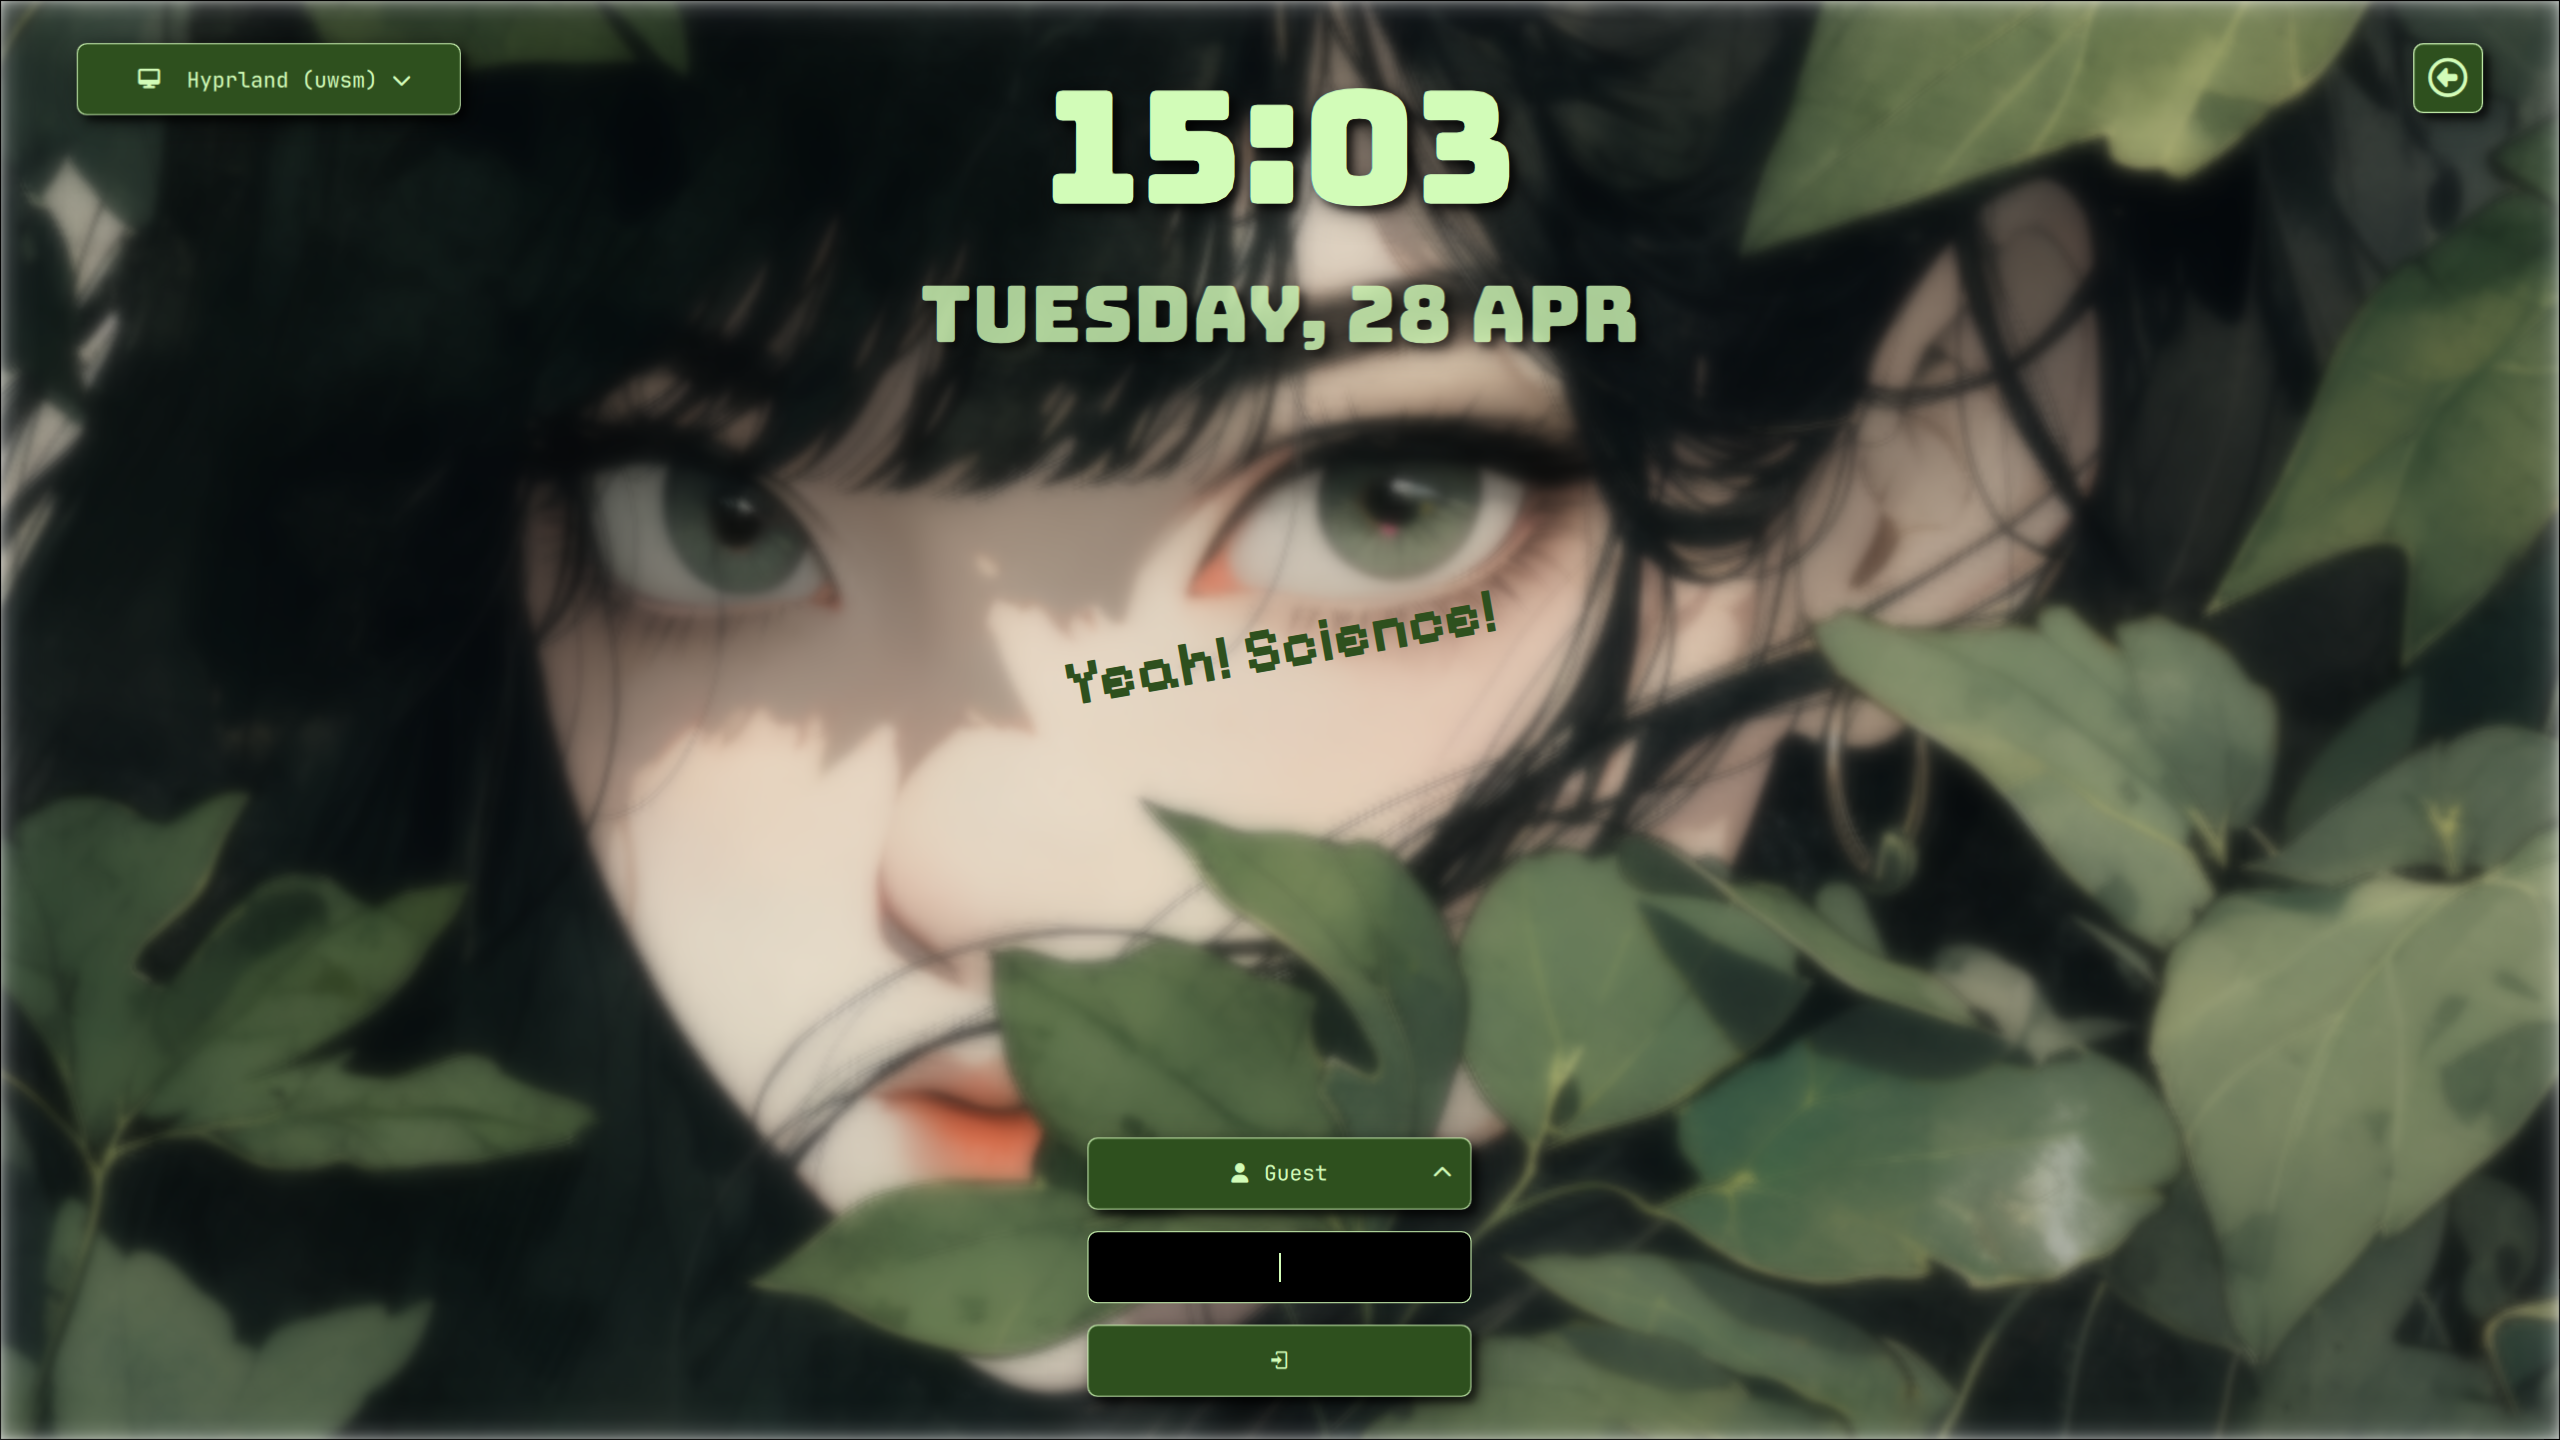
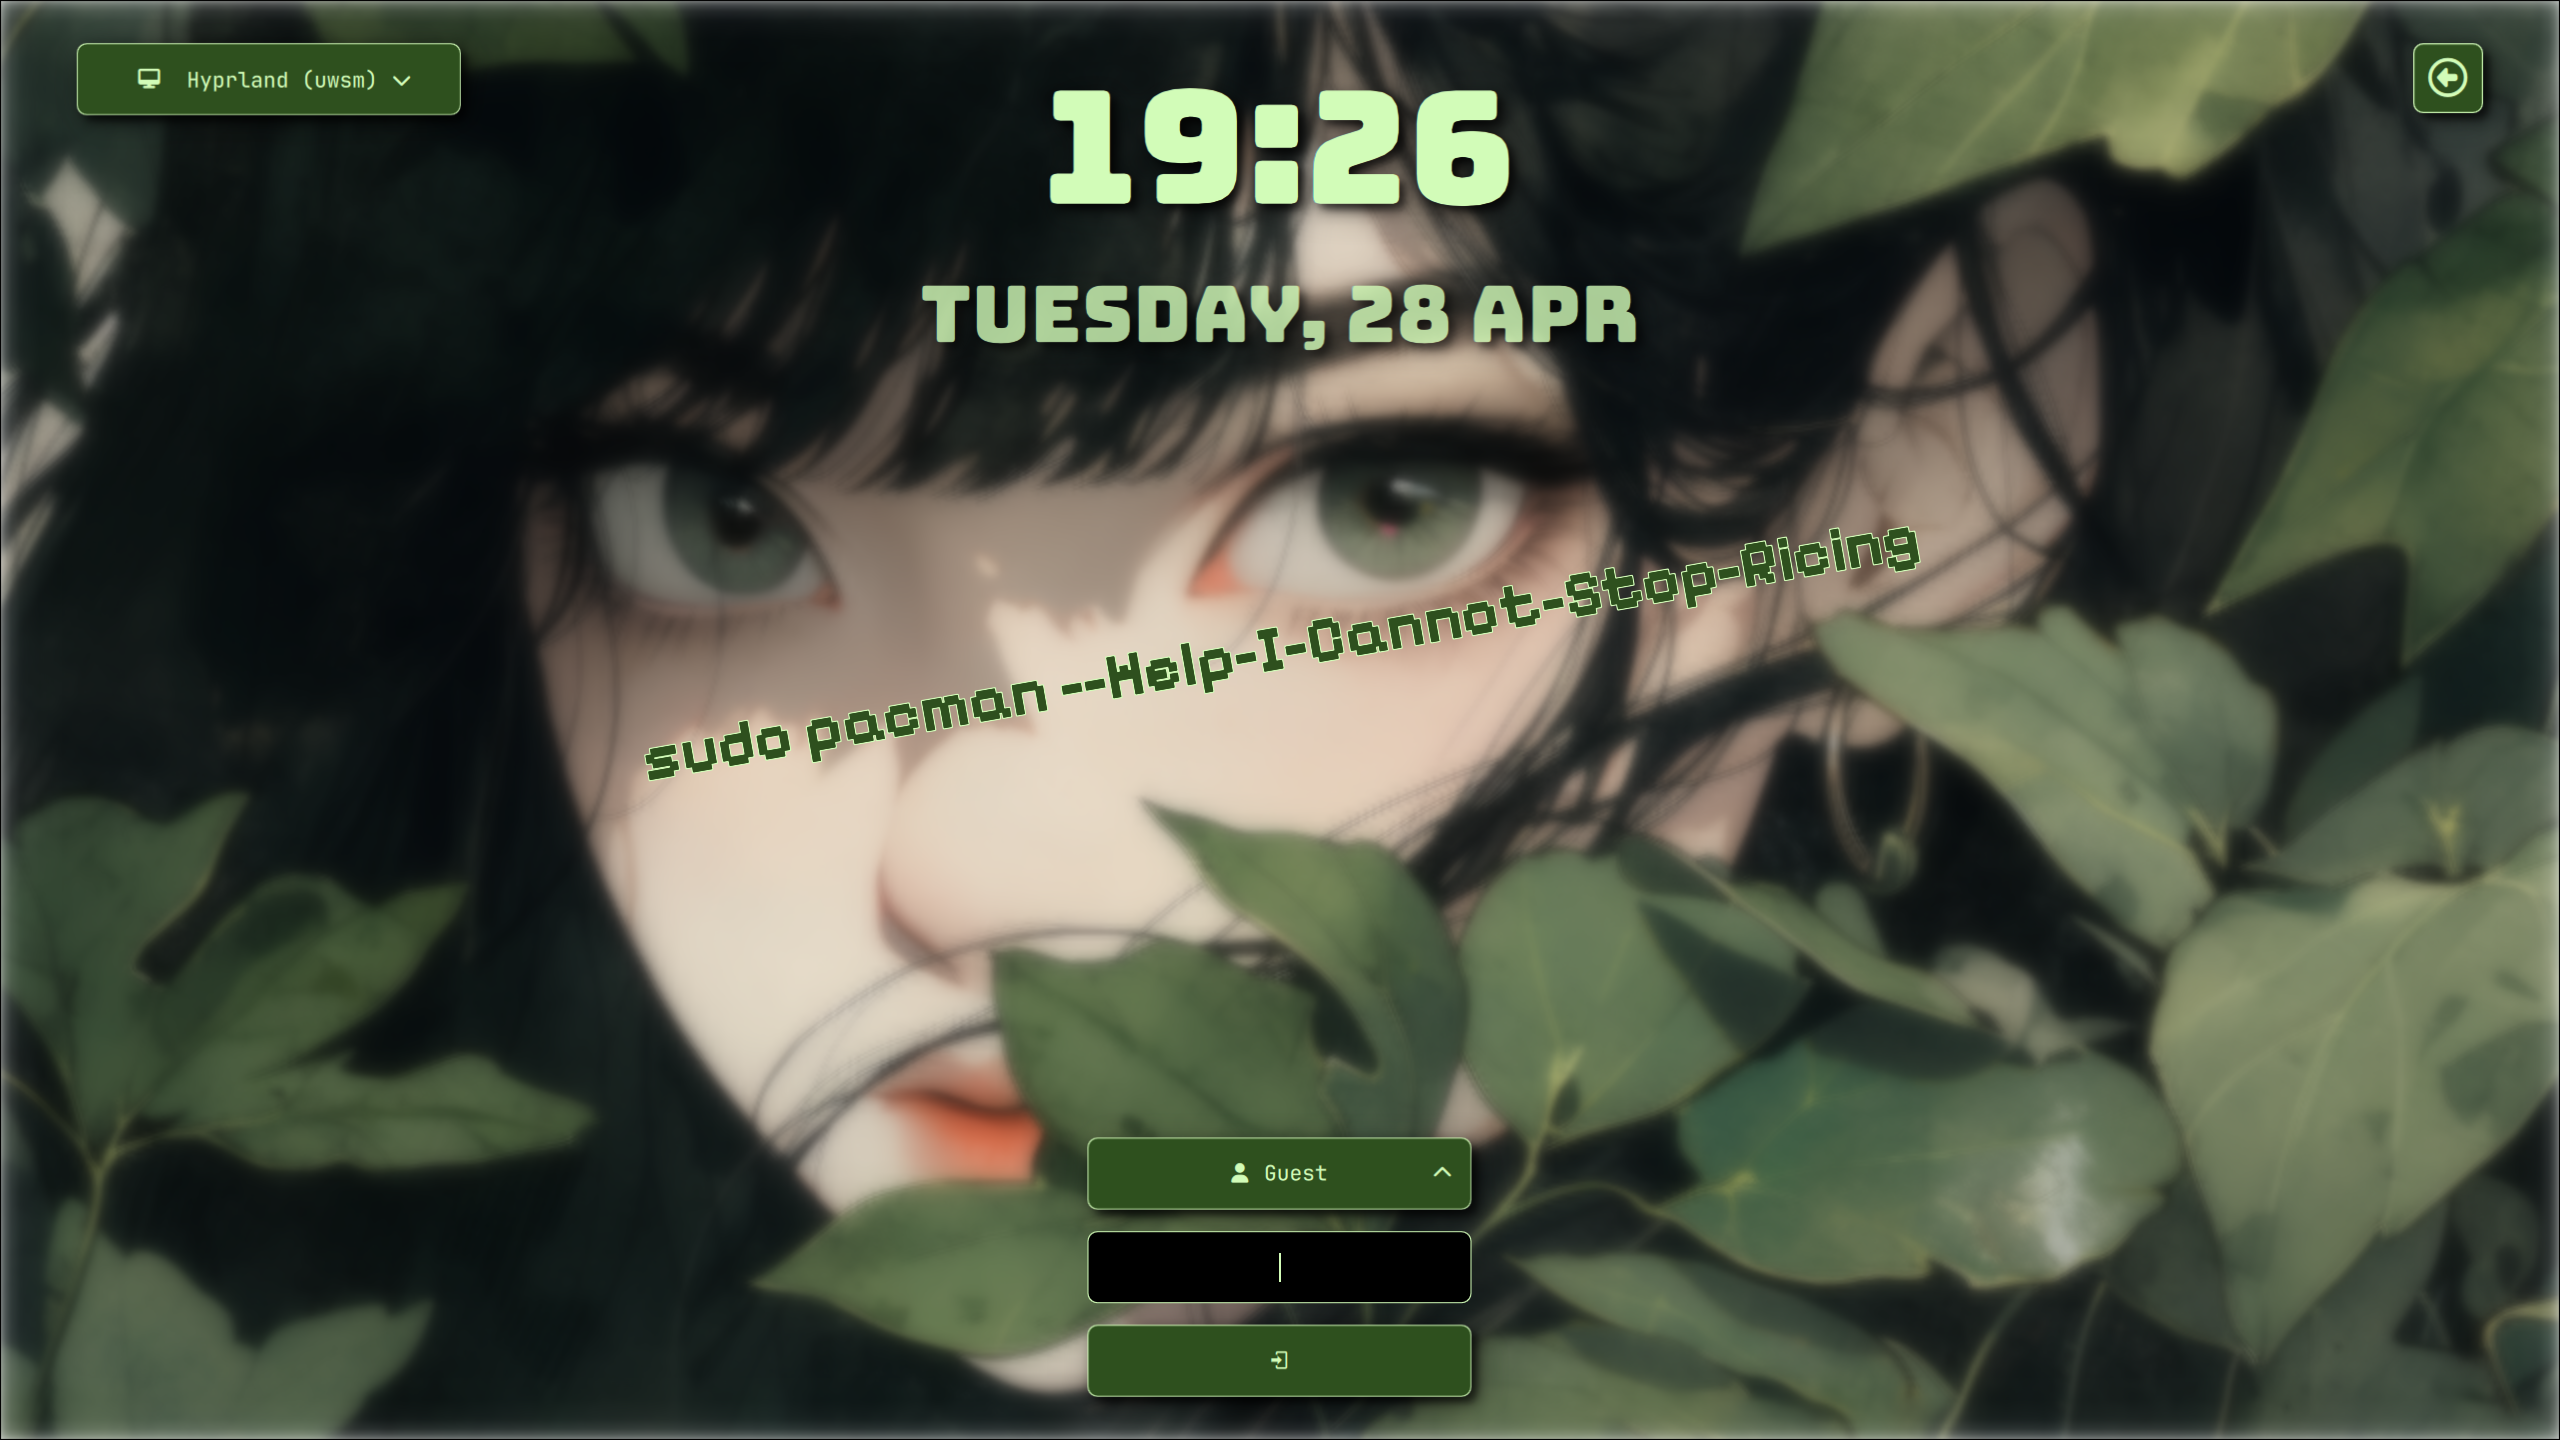
Updated preview, made splash text more readable, changed password focus

Changed region(s): [[0.25, 0.3438, 0.75, 0.5625], [0.4062, 0.0625, 0.5938, 0.1562]]

diff --git a/reactive/Matugen.qml b/reactive/Matugen.qml
@@ -2,7 +2,7 @@ import QtQuick
 
 QtObject {
 	
-	readonly property color background: "#12140e"
+	readonly property color background: "#11140f"
 	
 	readonly property color error: "#ffece9"
 	
@@ -10,11 +10,11 @@ QtObject {
 	
 	readonly property color inverse_on_surface: "#000000"
 	
-	readonly property color inverse_primary: "#344f18"
+	readonly property color inverse_primary: "#2e501e"
 	
-	readonly property color inverse_surface: "#e2e3d8"
+	readonly property color inverse_surface: "#e1e4d9"
 	
-	readonly property color on_background: "#e2e3d8"
+	readonly property color on_background: "#e1e4d9"
 	
 	readonly property color on_error: "#000000"
 	
@@ -26,7 +26,7 @@ QtObject {
 	
 	readonly property color on_primary_fixed: "#000000"
 	
-	readonly property color on_primary_fixed_variant: "#071400"
+	readonly property color on_primary_fixed_variant: "#031500"
 	
 	readonly property color on_secondary: "#000000"
 	
@@ -34,7 +34,7 @@ QtObject {
 	
 	readonly property color on_secondary_fixed: "#000000"
 	
-	readonly property color on_secondary_fixed_variant: "#0b1404"
+	readonly property color on_secondary_fixed_variant: "#091405"
 	
 	readonly property color on_surface: "#ffffff"
 	
@@ -46,60 +46,60 @@ QtObject {
 	
 	readonly property color on_tertiary_fixed: "#000000"
 	
-	readonly property color on_tertiary_fixed_variant: "#001414"
+	readonly property color on_tertiary_fixed_variant: "#001415"
 	
-	readonly property color outline: "#eef2e3"
+	readonly property color outline: "#edf2e4"
 	
-	readonly property color outline_variant: "#c0c4b6"
+	readonly property color outline_variant: "#bfc4b7"
 	
-	readonly property color primary: "#d9fbb1"
+	readonly property color primary: "#d2fcb8"
 	
-	readonly property color primary_container: "#accd88"
+	readonly property color primary_container: "#a5ce8e"
 	
-	readonly property color primary_fixed: "#cbeea5"
+	readonly property color primary_fixed: "#c4efab"
 	
-	readonly property color primary_fixed_dim: "#b0d18b"
+	readonly property color primary_fixed_dim: "#a9d291"
 	
 	readonly property color scrim: "#000000"
 	
-	readonly property color secondary: "#e8f4d5"
+	readonly property color secondary: "#e6f5d8"
 	
-	readonly property color secondary_container: "#bbc7aa"
+	readonly property color secondary_container: "#b9c7ac"
 	
-	readonly property color secondary_fixed: "#dbe7c8"
+	readonly property color secondary_fixed: "#d8e7cb"
 	
-	readonly property color secondary_fixed_dim: "#bfcbad"
+	readonly property color secondary_fixed_dim: "#bccbb0"
 	
 	readonly property color shadow: "#000000"
 	
-	readonly property color source_color: "#b2d889"
+	readonly property color source_color: "#425338"
 	
-	readonly property color surface: "#12140e"
+	readonly property color surface: "#11140f"
 	
-	readonly property color surface_bright: "#4e5149"
+	readonly property color surface_bright: "#4e514a"
 	
-	readonly property color surface_container: "#2f312a"
+	readonly property color surface_container: "#2e312b"
 	
-	readonly property color surface_container_high: "#3a3c35"
+	readonly property color surface_container_high: "#393c35"
 	
-	readonly property color surface_container_highest: "#454840"
+	readonly property color surface_container_highest: "#444840"
 	
-	readonly property color surface_container_low: "#1e211a"
+	readonly property color surface_container_low: "#1d211a"
 	
 	readonly property color surface_container_lowest: "#000000"
 	
-	readonly property color surface_dim: "#12140e"
+	readonly property color surface_dim: "#11140f"
 	
-	readonly property color surface_tint: "#b0d18b"
+	readonly property color surface_tint: "#a9d291"
 	
-	readonly property color surface_variant: "#44483d"
+	readonly property color surface_variant: "#43483e"
 	
-	readonly property color tertiary: "#c9f9f6"
+	readonly property color tertiary: "#c9f9fa"
 	
-	readonly property color tertiary_container: "#9cccc8"
+	readonly property color tertiary_container: "#9ccbcc"
 	
-	readonly property color tertiary_fixed: "#bbece8"
+	readonly property color tertiary_fixed: "#bbebec"
 	
-	readonly property color tertiary_fixed_dim: "#a0cfcc"
+	readonly property color tertiary_fixed_dim: "#a0cfd0"
 	
 }

diff --git a/reactive/Main.qml b/reactive/Main.qml
@@ -24,7 +24,7 @@ Item {
     
 
     readonly property color secondaryMonitorBgColor: Qt.rgba(0, 0, 0, 1)
-    readonly property string secondaryMonitorQuote:  "Multiple Monitors?\nIn this economy???"
+    readonly property string secondaryMonitorQuote:  "Multiple Monitors?\nIn this economy??!!"
 
 
     readonly property string timeFormat: "hh:mm"
@@ -90,7 +90,7 @@ Item {
     property bool sessionPopupOpen:   false
     property bool powerMenuOpen:      false 
 
-    focus: true
+    // focus: primaryScreen
 
     // Watch for login failures
     Connections {
@@ -140,9 +140,10 @@ Item {
         currentUserIndex = (lastUserIndex && lastUserIndex < userModel.count) ? lastUserIndex : 0
 
         // Force focus on password input
-        passwordInput.forceActiveFocus();
+        // if(primaryScreen) {
+        //     passwordInput.forceActiveFocus();
+        // }
     }
-
 
 
     ////////////////////////////////////////////
@@ -171,7 +172,7 @@ Item {
         }
     }
 
-    // Dimiss open menus and unfocus password on clicking outside
+    // Dimiss open menus when clicked anywhere else
     MouseArea {
         anchors.fill: parent
         
@@ -180,8 +181,9 @@ Item {
             root.userPopupOpen    = false;
             root.powerMenuOpen   = false;
             
-            // Natively drops focus from the passwordInput
-            root.forceActiveFocus();
+            if (primaryScreen) {
+                passwordInput.forceActiveFocus();
+            }
         }
     }
 
@@ -286,8 +288,8 @@ Item {
         font.pixelSize: fontSizeHuge
         font.family:    fontFamilyFancy
         
-        // style:      Text.Raised
-        // styleColor: "#3F3F15" 
+        style:      Text.Outline
+        styleColor: borderBase
 
         // Change on click
         MouseArea {
@@ -887,6 +889,7 @@ Item {
             Keys.onReturnPressed: attemptLogin()
             Keys.onEnterPressed:  attemptLogin()
 
+            // Cycle through users using the Tab Key
             Keys.onTabPressed: function(event) {
                 if (userModel.count > 0) {
                     root.currentUserIndex = (root.currentUserIndex + 1) % userModel.count;